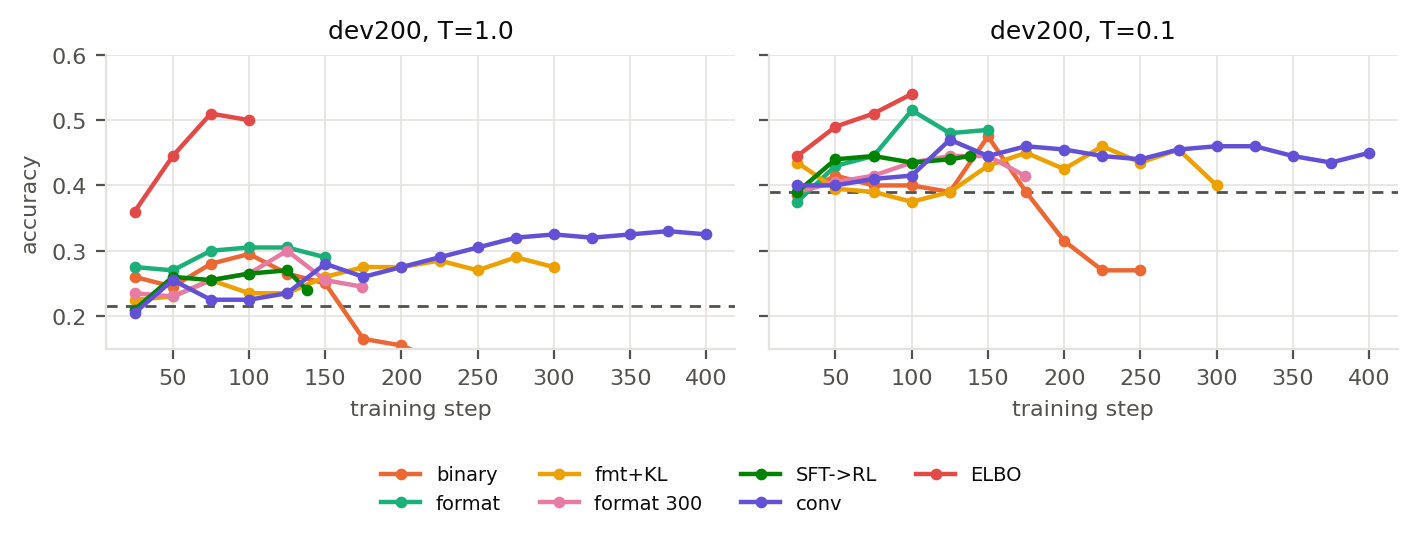
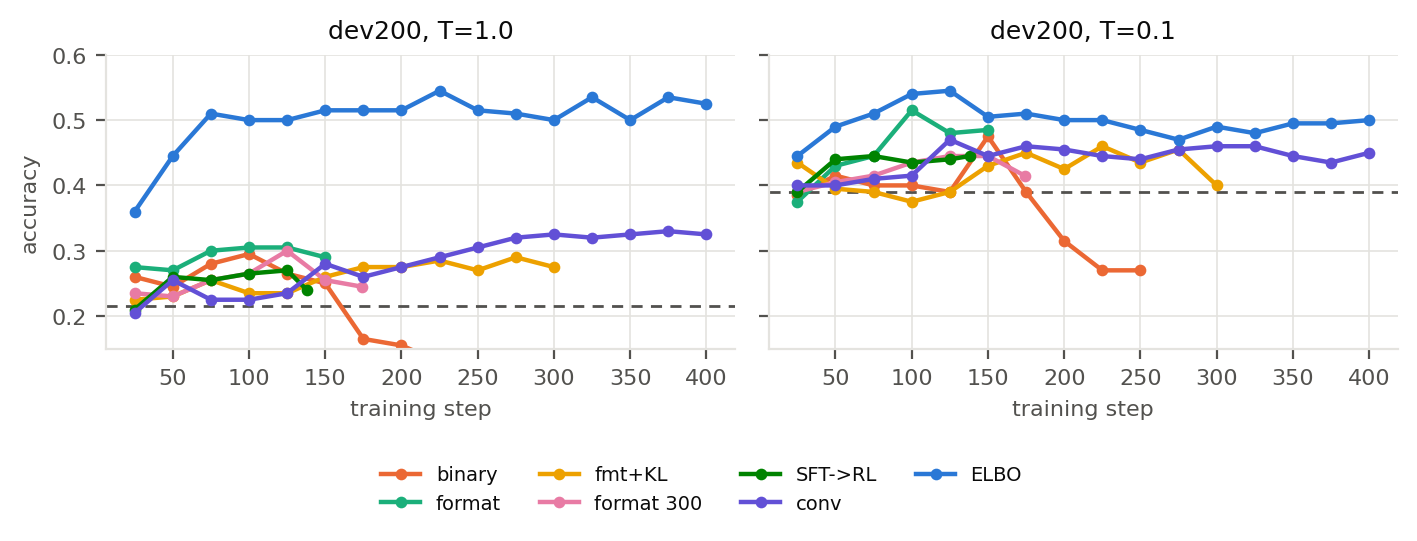
R48：定稿改为 ELBO 收敛轮第 400 步（test 42.8 / 45.4 / 43.1）；06/02 更新；图加入 ELBO 定稿

diff --git a/code/scripts/make_figures.py b/code/scripts/make_figures.py
@@ -49,6 +49,9 @@ ARMS = [
   ('convergence (KL+cos)', '1101-grpo-conv-fmt0.1-kl0.04', 'conv'),
   ('ELBO, no KL', '1103-grpo-elbo-conv-fmt0.1-nokl', 'ELBO'),
 ]
+# colour slot per arm (slot 0, blue, is free because base is drawn as a gray
+# reference line); ELBO takes it so it is not confused with binary (orange)
+SLOT = {name: (0 if name and 'elbo' in name else i) for i, (_, name, _) in enumerate(ARMS)}
 BASE_DEV200 = {'1.0': 0.215, '0.1': 0.390}
 
 
@@ -96,7 +99,7 @@ def fig_dev200_curves():
       if not e:
         continue
       xs, ys = zip(*e)
-      ax.plot(xs, ys, color=C[slot], lw=1.6, marker='o', ms=3.2, label=short)
+      ax.plot(xs, ys, color=C[SLOT[name]], lw=1.6, marker='o', ms=3.2, label=short)
     ax.set_title(f'dev200, T={T}')
     ax.set_xlabel('training step')
     ax.set_ylim(0.15, 0.6)
@@ -118,7 +121,7 @@ def fig_health_logp():
       continue
     m = ma([r for r in rows if r.get('action_logp') is not None], 'action_logp')
     xs, ys = zip(*m)
-    ax.plot(xs, ys, color=C[slot], lw=1.6, label=short)
+    ax.plot(xs, ys, color=C[SLOT[name]], lw=1.6, label=short)
   ax.set_xlabel('training step')
   ax.set_ylabel('mean action log-prob (25-step mean)')
   ax.set_title('Policy drift: falling curves precede divergence')
@@ -135,7 +138,7 @@ def fig_train_correct():
     if not rows:
       continue
     xs, ys = zip(*ma(rows, 'correct'))
-    ax.plot(xs, ys, color=C[slot], lw=1.6, label=short)
+    ax.plot(xs, ys, color=C[SLOT[name]], lw=1.6, label=short)
   ax.set_xlabel('training step')
   ax.set_ylabel('rollout accuracy (25-step mean)')
   ax.set_title('Training-batch accuracy')
@@ -207,16 +210,17 @@ def fig_kl_and_grad():
 
 
 def fig_test_main():
-  models = [('base', 'base'), ('SFT', 'sft'), ('RL (convergence)', 'rl')]
+  models = [('base', 'base'), ('SFT', 'sft'), ('RL, trajectory (D36)', 'rl'),
+            ('RL, ELBO (final)', 'elboconv')]
   settings = [('512 / T=1', 's512-T1.0'), ('512 / T=0.1', 's512-T0.1'), ('1024 / T=1', 's1024-T1.0')]
-  fig, ax = plt.subplots(figsize=(4.8, 2.4))
-  width = 0.26
+  fig, ax = plt.subplots(figsize=(5.6, 2.6))
+  width = 0.2
   for mi, (label, tag) in enumerate(models):
     xs, ys = [], []
     for si, (slabel, s) in enumerate(settings):
       p = os.path.join(RUNS, f'1103-test-{tag}-{s}', 'metrics.json')
       if os.path.exists(p):
-        xs.append(si + (mi - 1) * width)
+        xs.append(si + (mi - (len(models) - 1) / 2) * width)
         ys.append(100 * json.load(open(p))['accuracy'])
     if xs:
       ax.bar(xs, ys, width=width - 0.02, color=C[mi], label=label)
@@ -227,8 +231,8 @@ def fig_test_main():
   ax.set_xlabel('steps / temperature')
   ax.set_ylabel('GSM8K test accuracy (%)')
   ax.set_title('Test set (1319 questions, one seed each)')
-  ax.set_ylim(0, 46)
-  ax.legend(loc='lower center', ncol=3, bbox_to_anchor=(0.5, 1.02))
+  ax.set_ylim(0, 52)
+  ax.legend(loc='lower center', ncol=4, bbox_to_anchor=(0.5, 1.08))
   save(fig, 'fig_test_main')
 
 

diff --git a/docs/06-进度.md b/docs/06-进度.md
@@ -9,85 +9,32 @@
 
 ---
 
-## 当前状态（2026-11-03 12:20，D8 流水线在跑，跑完关机）
+## 当前状态（2026-11-03 21:15，无卡模式；全部 GPU 实验结束）
 
-- **阶段**：D6 完成（test 主表、步数鲁棒性、RL 多数投票）；D12 ELBO 对照臂完成，**结果与预期相反**（dev1000 T=1 48.1 / T=0.1 51.3，轨迹法同配置 31.6 / 46.4）；D37 已定。
-- **test 主表（D36 定稿 = 收敛轮第 400 步）**：
+- **阶段**：所有 GPU 实验已完成（D1–D8）。**定稿模型 = ELBO 收敛轮第 400 步**（`/root/autodl-tmp/rl_ckpt/1103-grpo-elbo-conv-fmt0.1-nokl/step400.ckpt`，D37 规则：三候选中 dev1000 两温度平均最高）。之后只剩报告、slides、demo 整理，不再开 GPU（成本约 ¥300，用户 11-03 告知）。
+- **test 主表**（1319 题，每题一个 seed；配对 McNemar）：
 
   | test | 512/T=1 | 512/T=0.1 | 1024/T=1（论文设置） |
   |---|---|---|---|
   | base | 15.2 | 32.4 | 16.0（论文 18.0） |
-  | SFT | 15.2 | 33.5 | 15.3 |
-  | RL（收敛轮 400） | 27.4 | 39.5 | 29.4 |
+  | SFT（lr 1e-5，epoch 1） | 15.2 | 33.5 | 15.3 |
+  | RL，轨迹法（收敛轮第 400 步，原 D36 定稿） | 27.4 | 39.5 | 29.4 |
+  | **RL，ELBO（收敛轮第 400 步，定稿）** | **42.8** | **45.4** | **43.1** |
 
-  test 上 RL vs base（512/T=1）+219 / −59，p = 8e-23；SFT vs base +47 / −47，p = 1.00。
-- **dev 多数投票（RL 收敛轮 400，k=8）**：T=1 55.9（pass@8 70.0），T=0.1 64.6（pass@8 78.8）。
-- **dev 步数鲁棒性（RL，T=1）**：128 / 256 / 512 / 1024 步 = 27.3 / 31.9 / 30.8 / 33.0。
-- **base 多数投票已完成（同预算对照）**：dev k=8：T=1 base 40.2 vs RL 55.9（pass@8 53.3 vs 70.0）；T=0.1 base 58.6 vs RL 64.6（pass@8 73.8 vs 78.8）。RL 单次 30.8 ≈ base 投 4 次 30.6。
-- **ELBO 收敛轮第一次尝试（带 KL β=0.04）第 24 步停掉**：ELBO 下 KL 约 6–7 nats/动作，β·KL 约为策略梯度的 10 倍，主导了训练（02「已更正的判断」）。记录保留在 `runs/1103-grpo-elbo-conv-fmt0.1-kl0.04-aborted`。
-- **正在跑**：`pipeline_d8_elbo_conv.sh`（R46c 改为不带 KL；日志 `runs/1103-pipeline-d8.log`）：base 投票已有（自动跳过）→ 冒烟 → ELBO 收敛轮（无 KL，400 步）→ dev1000 → 按 D37 定稿（变了就 test 一次 + demo）→ 汇总 `runs/1103-D8-summary.md` → 推送 → 关机。约 15:00 开始，预计约 21:30 结束。
-- **成本**：用户 11-03 告知已接近 ¥300。**D8 之后不再安排新的 GPU 实验**；新定稿上的多数投票与步数鲁棒性不再重跑，报告注明它们做在收敛轮第 400 步上。
-- **所有候选**（dev1000，512 步 + skip，两温度平均）：
-
-  | 候选 | T=1 | T=0.1 | 平均 | 是否经过挑选 |
-  |---|---|---|---|---|
-  | 格式分 100 步 | 31.6 | 46.4 | 39.00 | 是（单点最高） |
-  | **收敛轮 400 步** | 30.8 | 46.3 | **38.55** | **否（事前定最后一步）** |
-  | 格式分 s300 125 步 | 30.6 | 46.4 | 38.50 | 是 |
-  | KL 225 步 | 29.7 | 46.8 | 38.25 | 是 |
-  | 二值 150 步 | 28.5 | 46.2 | 37.35 | 是 |
-  | SFT → RL 125 步 | 25.9 | 46.8 | 36.35 | 是 |
-
-  收敛轮与格式分第 100 步配对 p=0.64 / 1.00，不显著；与其它候选也全部不显著（只明显好于 SFT → RL）。**这个配方在 dev 上的天花板约 39（两温度平均），多训换不来更多；没挑过的第 400 步也没吃亏。**
-- **定稿已定（D36，R45）**：收敛轮第 400 步（`/root/autodl-tmp/rl_ckpt/1101-grpo-conv-fmt0.1-kl0.04/step400.ckpt`）。D6 的 test 范围与协议见 D36；流水线 `code/scripts/pipeline_d6_test.sh` 已写好并通过语法检查，待开机执行。
-- **磁盘**：约 34 GB。checkpoint 保留：收敛轮第 400 步、二值 150/250、格式分 100/150、KL 225/300、格式分 s300 125/174、SFT→RL 125/138、`sft_ckpt/1030-sft-v1b-lr1e-5`。
-- **三臂结果**（dev1000，按事先定的规则选 checkpoint；base T=1 18.0 / 后 800 题 17.1，T=0.1 38.6 / 38.5）：
-
-  | 臂 | 选中步 | T=1 dev1000（后 800） | T=0.1 dev1000（后 800） |
-  |---|---|---|---|
-  | 二值 | 150 | 28.5（29.4） | 46.2（45.9） |
-  | 格式分 | 100 | 31.6（31.9） | 46.4（45.1） |
-  | 格式分 + KL | 225 | 29.7（30.0） | 46.8（47.0） |
-
-  都显著好于 base（p < 0.001）；三臂两两配对**都不显著**（p ≥ 0.05，最接近的是格式分 vs 二值 T=1 p=0.054）。
-- **KL 轮要注意**（09 §2.1）：
-  - 第 14 步出现梯度尖峰，之后学得慢，所以"带 / 不带 KL"的对比被混淆；
-  - 跑满 300 步没崩，但这不能当作 KL 防发散的证据（08 Q39、Q42）；
-  - 最后约 50 步 log-prob 轻微下降，第 300 步 T=0.1 回落到 40.0（08 Q41）。
-- **R43 复查发现的错误**：都已记进 02「已更正的判断」和 08。
-  - KL 日志值偏小约 30 倍（已修，冒烟通过）；
-  - Q37 的 pass@8 算错；
-  - "80% 的组有对有错"高估；
-  - D32 耗时低估；
-  - "格式分臂多半也会崩"说得太满（只有一个崩溃样本）。
-- **R43 新增并验证**：
-  - D3 检查点通过；
-  - D20"PAD 几乎不占梯度"实测成立；
-  - tensorboard 转换脚本 `scripts/runs_to_tb.py`（08 Q39、Q40）。
-- **磁盘**：剩 37 GB。checkpoint 保留：
-  - 二值臂第 150 / 250 步；
-  - 格式分臂第 100 / 150 步；
-  - KL 轮第 225 / 300 步；
-  - `sft_ckpt/1030-sft-v1b-lr1e-5`。
-- **已定**：D14、D30、D11、D12、D16、D03、D04、D20、D13、D31、D32、D33；格式分为开关；KL 为 `--kl` 开关（R41）。
-
-> **关于上限**（08 Q37，R43 已更正）：到不了 90%。"50–55%"只是粗估，pass@8 也不是严格上限。要量化，得在 dev 上用不同 seed 采样测 pass@k 曲线（D16）。
+  定稿 vs base（512/T=1）+406 / −42，p = 7e-76；vs 原定稿 +295 / −91，p = 3e-26。T=0.1：vs base +267 / −95（p = 5e-20），vs 原定稿 +190 / −112（p = 8e-6）。
+  **如实说明**：定稿先是轨迹法（D36）并已测过 test，后来 ELBO 对照臂在 dev 上明显更好，按事先定的规则（D37）改为 ELBO，再在 test 上跑一次。两次选择都只看 dev，test 不参与选择；但 test 一共被两个 RL 模型用过。
+- **dev1000 候选**：轨迹法收敛轮 30.8 / 46.3（平均 38.55）；ELBO 150 步 48.1 / 51.3（49.70）；**ELBO 收敛轮 50.0 / 50.5（50.25；后 800 题 49.4 / 50.6）**。
+- **ELBO 收敛轮（无 KL）**：400 步未触发刹车；dev200 两温度平均第 75 步起进入 49–52 的平台（最高 52.25，第 125 / 225 步）；T=0.1 在第 125 步后从 54.5 缓降到 47–50；log-prob 从 −0.45 缓降到约 −0.63，训练正确率、错误类型、输出长度都稳定；尖峰跳过 140 / 1600 次更新（8.8%），最大梯度范数 1.5e8（都被裁剪到 1）。训练部分每步 8.3 s（轨迹法约 40 s）。
+- **dev 多数投票**（做在原定稿，即轨迹法收敛轮第 400 步上；未在 ELBO 定稿上重做，成本原因）：k=8 时 T=1 base 40.2 vs RL 55.9，T=0.1 58.6 vs 64.6。
+- **demo**：`runs/1103-demo-final.txt`（base vs 定稿，dev 3/17/42/88/137，T=0.1）：base 2/5，定稿 3/5（5 题只作样例）。
+- **图**：`docs/figures/`，8 张，`python code/scripts/make_figures.py` 可重画（无卡可跑）。
 
 ## 下一步（新会话从这里开始，按顺序）
 
-1. [ ] 确认 `pipeline_d8_elbo_conv.sh` 跑完（`tail runs/1103-pipeline-d8.log` 以 `pipeline done` 结尾）；ELBO 收敛轮有没有触发刹车、`skipped_updates` 多少。
-2. [ ] 分析 `runs/1103-D8-summary.md`：
-   - base vs RL 在同样 k 下的投票准确率（同预算对照）；
-   - ELBO 收敛轮的 dev200 曲线是否进平台、最后一步 dev1000；与收敛轮（轨迹法）逐步配对；
-   - 定稿结果；如果换了定稿，test 主表改用新定稿，旧定稿的 test 数字作为"先定后改"如实保留；
-   - 机制核查（不用 GPU 的部分）：ELBO 与轨迹法梯度的大小和方向差异从哪来。
-3. [ ] D17 止损点；旧 checkpoint 清理清单。
-4. [ ] **报告**（11-04 下午起）：用 [10-通俗讲解.md](10-通俗讲解.md) 做导言（R44 写的全程通俗版，面试也能用），09 §4 的局限写进去，D36 的 test 表做主结果。
-5. [ ] 待做：
-   - **ELBO 对照（D12）：代码已写**（`rl/logprob.py::logp_elbo`、`scripts/grpo.py --logprob elbo`、`tests/test_rl_logprob.py::check_elbo_model`），语法和 import 已查，**还没在 GPU 上跑**。跑法：`python -m tests.test_rl_logprob`（先验证），再 `python -m scripts.grpo --run_name 1102-grpo-elbo --logprob elbo --kl 0.04 --kl_clip 20 ...`（150 步，其余同收敛轮）；
-   - **demo 脚本已写**：`code/scripts/demo.py`（同题多 checkpoint 并排，输出代码/结果/判定，`--out` 存 JSON），待 GPU 跑；
-   - 报告草稿 `docs/11-报告草稿.md`、slides 大纲与 demo 设计 `docs/12-slides与demo.md`（test 表格留 `[待 D6]`）；
-   - 按 D35 的新规则补评已有 checkpoint（格式分 150、KL 300、二值 250），约 20–30 分钟；
+1. [ ] 报告定稿（`docs/11-报告草稿.md`）：主结果已改为 ELBO 定稿；补"精确 vs 近似"一节的机制讨论（推测、未核实的要标明）。
+2. [ ] slides（`docs/12-slides与demo.md`）：按 14 页大纲做成 PPT / PDF；图在 `docs/figures/`。
+3. [ ] demo：用 `runs/1103-demo-final.txt` 的卡片；如需录屏，脚本 `code/scripts/demo.py` 需要 GPU（不再开机的话就用现有卡片）。
+4. [ ] 收尾：README / 运行说明（题目要求"代码实现包括运行说明"）；checkpoint 清理清单（问用户）；D17 止损点说明写进报告。
 
 注意：
 - 每次 GPU 运行都按 CLAUDE.md 规则 4 记录（`runs/` + 本文「运行记录」）。
@@ -423,6 +370,8 @@ dev200（base T=1 21.5、T=0.1 39.0）：T=1 第 25/50/75/100/125/150 步为 27.
 | 11-03 | `1103-demo-*` | demo 卡片：dev 3/17/42/88/137，base vs 定稿 RL，T=0.1 | <0.05 | — | base 2/5 对，RL 1/5 对（5 题太少，只作样例） |
 | 11-03 | `1103-dev-base-mv-*`（13:03–14:32） | base dev 多数投票 8 seed × 2 温度 | 约 1.5 | 待填 | k=8：T=1 40.2（pass@8 53.3），T=0.1 58.6（73.8） |
 | 11-03 | `1103-grpo-elbo-conv-fmt0.1-kl0.04-aborted`（14:33–14:52） | ELBO 收敛轮第一次尝试（带 KL），第 24 步停掉 | 约 0.3 | 待填 | KL 主导训练，作废 |
+| 11-03 | `1103-grpo-elbo-conv-fmt0.1-nokl` 及 dev1000（14:56–20:32） | D37 ELBO 收敛轮（无 KL），400 步 | 约 5.6 | 待填 | 未触发刹车；第 400 步 dev1000 50.0 / 50.5（定稿） |
+| 11-03 | `1103-test-elboconv-*`、`1103-demo-final-*`（20:32–20:57） | 定稿 test 三设置 + demo | 约 0.4 | 待填 | test 42.8 / 45.4 / 43.1；demo base 2/5、定稿 3/5 |
 
 ## 开销累计
 
@@ -472,3 +421,4 @@ dev200（base T=1 21.5、T=0.1 39.0）：T=1 第 25/50/75/100/125/150 步为 27.
 | 10-31 | 服务器 | R43：监控 KL 轮至结束（未关机，有 `NO_SHUTDOWN`）；阶段复查（新增 09，另起独立代码审查子任务）：发现 KL 轮梯度尖峰、KL 日志 bug（已修并冒烟）、Q37 pass@8 错误、"80% 有对有错"高估、D32 耗时低估、"多半会崩"说得太满；补做 D3 检查点（通过）、梯度诊断（D20 成立）；tensorboard 转换脚本；三臂 dev1000 两两配对都不显著；08 补 Q38–Q44；定 D34（SFT e1 → RL + 格式分 300 步、定稿规则），启动第三轮（跑完关机） |
 | 11-01 | 服务器（无卡） | R44：D5 第三轮结果分析（SFT → RL 在 T=1 显著差于 base → RL；格式分只推迟发散到第 174 步；同配置跑两次 dev1000 无差异）；更正定稿结论（第 100 步是单点噪声、配方本来不收敛）；定 D35（收敛轮 + 新选点规则），写代码并冒烟准备 |
 | 11-01—11-02 | 服务器 | R45：跑收敛轮（截断 KL + 尖峰跳过 + cosine 衰减，400 步）：全程无尖峰、dev200 第 275 步起进平台、第 400 步 dev1000 T=1 30.8 / T=0.1 46.3；与其它候选全部不显著。更正 09 §2.1（KL 轮变慢不是尖峰造成的）；写 10-通俗讲解；跑完关机 |
+| 11-03 | 服务器 | R46–R48：D6（test 主表、步数鲁棒性、RL 投票）；ELBO 对照臂与预期相反（dev1000 48.1 / 51.3）；D37：base 投票、ELBO 收敛轮（第一次带 KL 量级不对、第 24 步停掉，去掉 KL 重跑）；定稿改为 ELBO 收敛轮第 400 步，test 42.8 / 45.4 / 43.1；8 张图（make_figures.py）嵌入报告；08 Q47–Q49 |

diff --git a/docs/02-决策记录.md b/docs/02-决策记录.md
@@ -57,6 +57,9 @@
 | R29 | 10-30 | 都按建议；复查后错误率能到多少 | 给出 v1b 残余错误率估计（08 Q17） | **D10** 做 SFT 消融（过滤 vs 不过滤）；**SFT 主数据用 v1b**（6232 条） |
 | R45 | 11-02 | 继续（用建议） | 分析收敛轮：第 400 步 dev1000 T=1 30.8 / T=0.1 46.3，与所有候选配对都不显著；dev200 从第 275 步起进平台，全程无尖峰。**建议定稿 = 收敛轮第 400 步**（唯一没有选择偏差的 RL 模型）。同时更正 09 §2.1：KL 轮变慢不是尖峰造成，是 KL 本身 | **定稿 = 收敛轮第 400 步**；D6 按建议执行（见 D36） |
 | R46 | 11-03 | 是否建议做 base 多数投票；你似乎提前关机了 | 说明不是提前关机（计划内四段全部跑完、06:03 按指示关机；base 投票只是待定建议）；建议做 base 投票；报告 ELBO 对照臂与预期相反（dev1000 48.1 / 51.3 vs 31.6 / 46.4） | **D37**：base 投票（两温度）、ELBO 收敛轮、定稿看后续结果按 dev 定 |
+| R48 | 11-03 | 跑完了 | D8 全部完成：ELBO 收敛轮 dev1000 50.0 / 50.5，按 D37 定稿改为它，test 42.8 / 45.4 / 43.1；demo base 2/5、定稿 3/5；文档、图、报告更新为最终结果 | — （按 D37 规则执行） |
+| R47 | 11-03 | 写报告和 slides 时记得把 loss 等图也放上，可以提前做已有部分 | 写 `code/scripts/make_figures.py`，出 8 张图（dev200 曲线、log-prob 健康度、训练正确率、SFT loss vs 准确率、KL 与梯度、test 主表、多数投票、步数鲁棒性），嵌入 11 / 12 并配中文图注 | — |
+| R46d | 11-03 | 用更小的 KL 系数不行么 | 可以，但 ELBO 下 KL 在训练中从 0.03 涨到 6.7，固定 β 无法兼顾前后（前期标定 ≈0.02、后期 ≈1e-4），需要自适应 β；而且 ELBO 150 步不加 KL 没发散，先验证要不要 KL 再调。若无 KL 的 400 步崩了再考虑（未崩） | — （维持 R46c） |
 | R46c | 11-03 | （ELBO 收敛轮第 20 步，我报告 KL 量级问题）怎么处理 | KL 在 ELBO 下大约 1000 倍，β·KL 约为策略梯度的 10 倍，继续跑结果无法解释；给出三个选项 | **停掉、去掉 KL 重跑**（其余同 D37；总时长不超过已批准的） |
 | R45b | 11-02 | （无卡）把不依赖 GPU 的都做掉：ELBO、报告、slides / demo | 写了 ELBO log-prob（单次全遮前向）、`--logprob elbo` 开关、测试；demo 脚本；报告草稿；slides 大纲 | — （无决策） |
 | R45 | D36 | 定稿模型与 D6 范围 | **收敛轮第 400 步定为定稿**；test 只跑定稿 RL / base / SFT 三个模型 × 三个设置；步数鲁棒性、多数投票在 dev |
@@ -367,6 +370,8 @@
 | ReMax（用 greedy 解码的得分作基线） | 单个样本当基线，噪声大；扩散模型的"greedy 解码"揭开顺序仍是随机的，基线本身也不稳定 |
 
 ### D12 RL 的 log-prob 计算 —— 轨迹法 + ELBO 对照（已定，R31）
+
+> **R46–R48 结果（与预期相反）**：ELBO 对照臂反而明显更好。同配置 150 步 dev1000 T=1 48.1 / T=0.1 51.3（轨迹法 31.6 / 46.4）；收敛配方（无 KL）400 步 50.0 / 50.5，test 42.8 / 45.4（轨迹法收敛轮 27.4 / 39.5）；训练部分快约 4–5 倍。所以下面"ELBO 有偏，只作对照、不作主线"的判断被实验推翻，定稿模型就是 ELBO 臂（D37）。机制只有推测（报告里标明）：轨迹法的大多数动作在几乎写满的画布上揭开，log p ≈ 0、学习信号弱；ELBO 直接训练全遮盖画布上的预测，也就是生成第一步的决策；代价是梯度范数很大且波动（常态 20–150，最大 1.5e8），KL 的量级也完全不同（见「已更正的判断」）。
 
 > **R31 定下**：主线轨迹法（分层抽 8 轮）+ 另外做一组 ELBO 近似作对照，回答"精确 vs 近似"。代价是每组约多 1.5–2 卡时。
 >
@@ -743,9 +748,11 @@
 | 保持 D36、ELBO 只写成 dev 发现 | dev 上差 11pp（两温度平均），远超噪声；定稿一个明显更差的模型不合理 |
 | 现在就把定稿改成 ELBO 第 150 步 | 未收敛、只有一个 seed；先看收敛轮 |
 
+> **D37 执行结果（R48，11-03 20:57）**：ELBO 收敛轮（无 KL）400 步跑完、未触发刹车。dev1000 两温度平均：轨迹法收敛轮 38.55、ELBO 150 步 49.70、**ELBO 收敛轮 50.25** → 按规则**定稿改为 ELBO 收敛轮第 400 步**，并在 test 上跑了一次：512/T=1 42.8、512/T=0.1 45.4、1024/T=1 43.1（原定稿 27.4 / 39.5 / 29.4）。test 一共被两个 RL 模型用过（D36、D37 各一次），两次选择都只看 dev。
+
 ### D36 定稿模型与 D6 评测范围（已定，R45）
 
-> **R45 定下**：定稿模型 = 收敛轮第 400 步（`rl_ckpt/1101-grpo-conv-fmt0.1-kl0.04/step400.ckpt`）；D6 在 test 上只跑三个模型（定稿 RL / base / SFT epoch 1），每个三个设置（512 步 T=1、512 步 T=0.1、1024 步 T=1），每题一个 seed；步数鲁棒性和多数投票在 dev 上做。
+> **R45 定下**（R48 起被 D37 取代：定稿改为 ELBO 收敛轮第 400 步）：定稿模型 = 收敛轮第 400 步（`rl_ckpt/1101-grpo-conv-fmt0.1-kl0.04/step400.ckpt`）；D6 在 test 上只跑三个模型（定稿 RL / base / SFT epoch 1），每个三个设置（512 步 T=1、512 步 T=0.1、1024 步 T=1），每题一个 seed；步数鲁棒性和多数投票在 dev 上做。
 
 | 项 | 取值 | 理由 |
 |---|---|---|
@@ -916,3 +923,4 @@
 | 2026-11-02 | R45b：ELBO 对照代码、测试；demo 脚本；报告草稿（11）、slides 与 demo 设计（12） |
 | 2026-11-03 | R46：D6 与 ELBO 对照臂结果；已更正的判断补一条（ELBO 比预期好得多）；新增并定下 D37 |
 | 2026-11-03 | R46c：D37 的 ELBO 收敛轮去掉 KL（第一次尝试 KL 量级不对、第 24 步停掉）；已更正的判断补一条 |
+| 2026-11-03 | R47–R48：报告图；D37 执行完毕，定稿改为 ELBO 收敛轮第 400 步；D12、D36 加注 |
